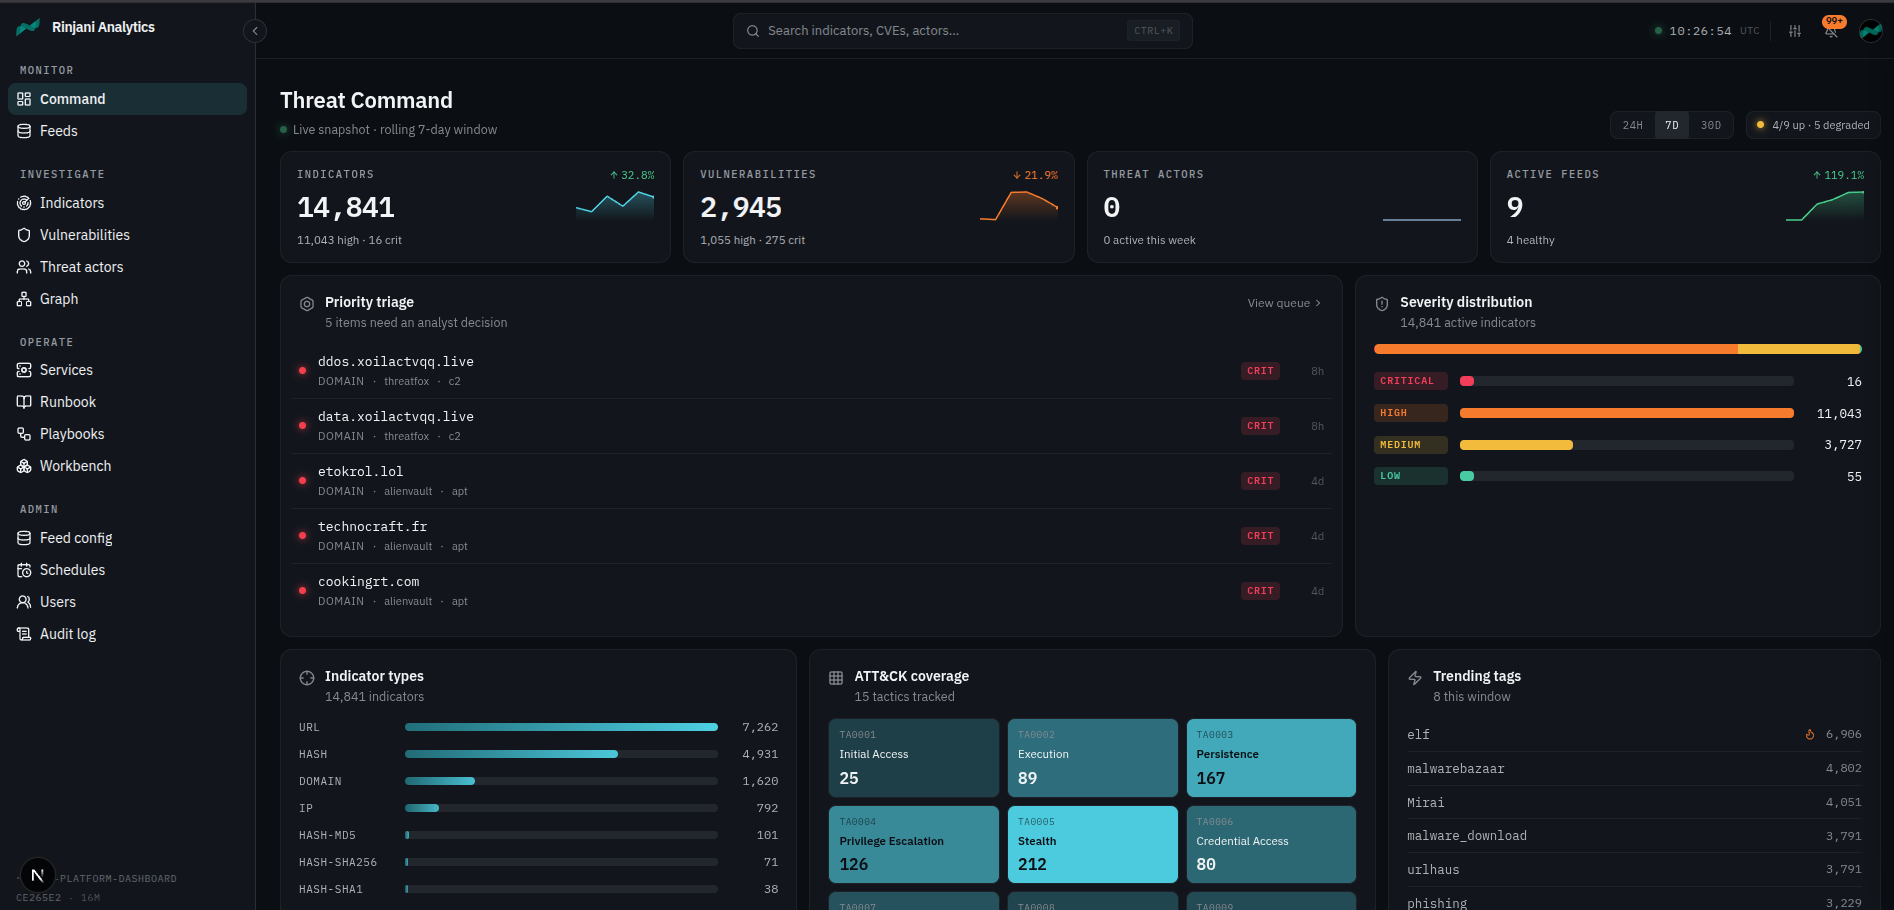
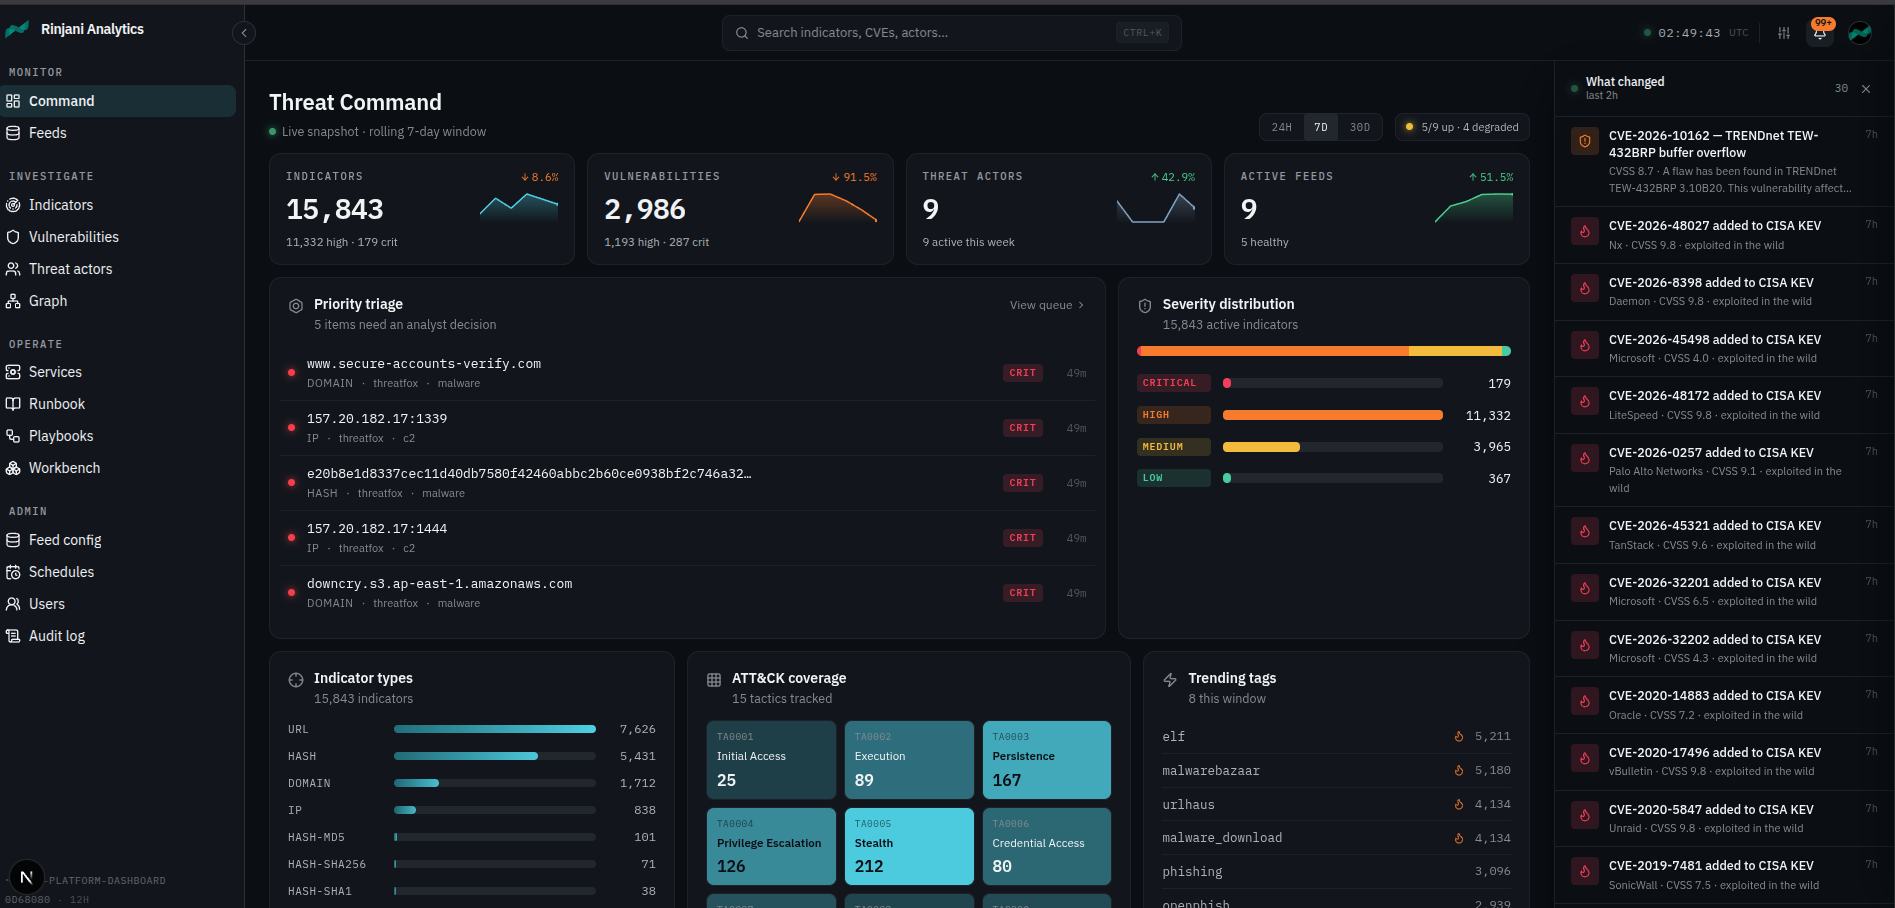
docs(readme): refresh screenshot tour — 8 new captures from Command → Feed config
Replaces the single hero shot with an ordered walkthrough of every
analyst-facing surface, matching the left-rail nav order so a new
visitor can follow the same sequence the operator clicks through:

  Command → Indicators → Vulnerabilities → Threat actors → Graph
       → Services → Feeds → Feed config

Each section gets a one-sentence "what this is" so visitors don't
have to infer from the image alone. All screenshots regenerated
2026-05-31 against post-PR-30 (IP:port enrichment, dedup tags,
real Sighting trend, working window switcher).

diff --git a/README.md b/README.md
@@ -12,11 +12,47 @@ Paired with [cti-platform-api](https://github.com/rinjanianalytics/cti-platform-
 
 ---
 
-## 📸 Screenshot
+## 📸 Tour
+
+### Threat Command — analyst dashboard (`/`)
+KPI tiles with rolling-window sparklines and delta %, CRIT-IOC priority triage, severity distribution, ATT&CK coverage, indicator types, trending tags, actor watchlist, and a semantic events rail on the right (KEV adds, high-CVSS CVEs, new actors, big pulses, sync failures). The 24H / 7D / 30D switcher scopes every tile and panel to the selected window.
 
 ![Threat Command — analyst dashboard](docs/screenshots/dashboard.png)
 
-The Command page (`/`) is the analyst's at-a-glance entry point: KPI tiles with rolling-window sparklines and delta %, a CRIT-IOC priority triage queue, severity distribution, ATT&CK coverage, indicator types, trending tags, actor watchlist, and a semantic events stream (KEV adds, high-CVSS CVEs, new actors, big pulses, sync failures). The 24H / 7D / 30D switcher scopes every tile and panel to the selected window.
+### Indicators (`/iocs`)
+IPs / domains / hashes / URLs with type + severity filters, type-ahead search, sev-tinted left edge, and a click-through entity drawer with Pivot-in-graph, Copy, and Watch actions.
+
+![Indicators](docs/screenshots/dashboard-indicators.png)
+
+### Vulnerabilities (`/vulnerabilities`)
+Vendor/product, CVSS, KEV-only toggle, published-date range filter. Each row deep-links to the CVE drawer with KEV chip, attributes, and related entities via vector similarity.
+
+![Vulnerabilities](docs/screenshots/dashboard-vulnerabilities.png)
+
+### Threat actors (`/actors`)
+APT groups with aliases, sophistication, motivation, resource level, and a composite **activity** score (OTX pulse mentions × TTP recency × sophistication × recency bonus — not just `last_seen DESC`). "AI enrich missing" fires Gemini against blank fields.
+
+![Threat actors](docs/screenshots/dashboard-threat-actors.png)
+
+### Graph explorer (`/graph`)
+Type a seed (IOC value, actor name, technique ID) and expand the neighbourhood via Cypher. Force-directed: actor ↔ technique ↔ malware ↔ IOC ↔ vuln.
+
+![Graph explorer](docs/screenshots/dashboard-graph.png)
+
+### Services (`/admin/services`)
+One-pane ops health: Postgres / OpenSearch / Neo4j / Redis × 2, API + worker liveness, bootlock state, queue depths, recent feed-sync results, LLM provider + enrichment-source config.
+
+![Services](docs/screenshots/dashboard-services.png)
+
+### Feeds (`/feeds`)
+Analyst-facing landscape rotation: live per-source counters (OTX pulses today / week / total) plus the latest pulse stream — title, description, tags, ingestion timestamp.
+
+![Feeds](docs/screenshots/dashboard-feeds.png)
+
+### Feed config (`/admin/feeds`)
+Toggle each upstream sync on/off, set the polling interval, see the last sync's success/fail status, and **Run now** to fire an immediate sync. Writes through to the same `reconcileScheduledJob` control plane Workbench uses.
+
+![Feed config](docs/screenshots/dashboard-feed-config.png)
 
 ---
 